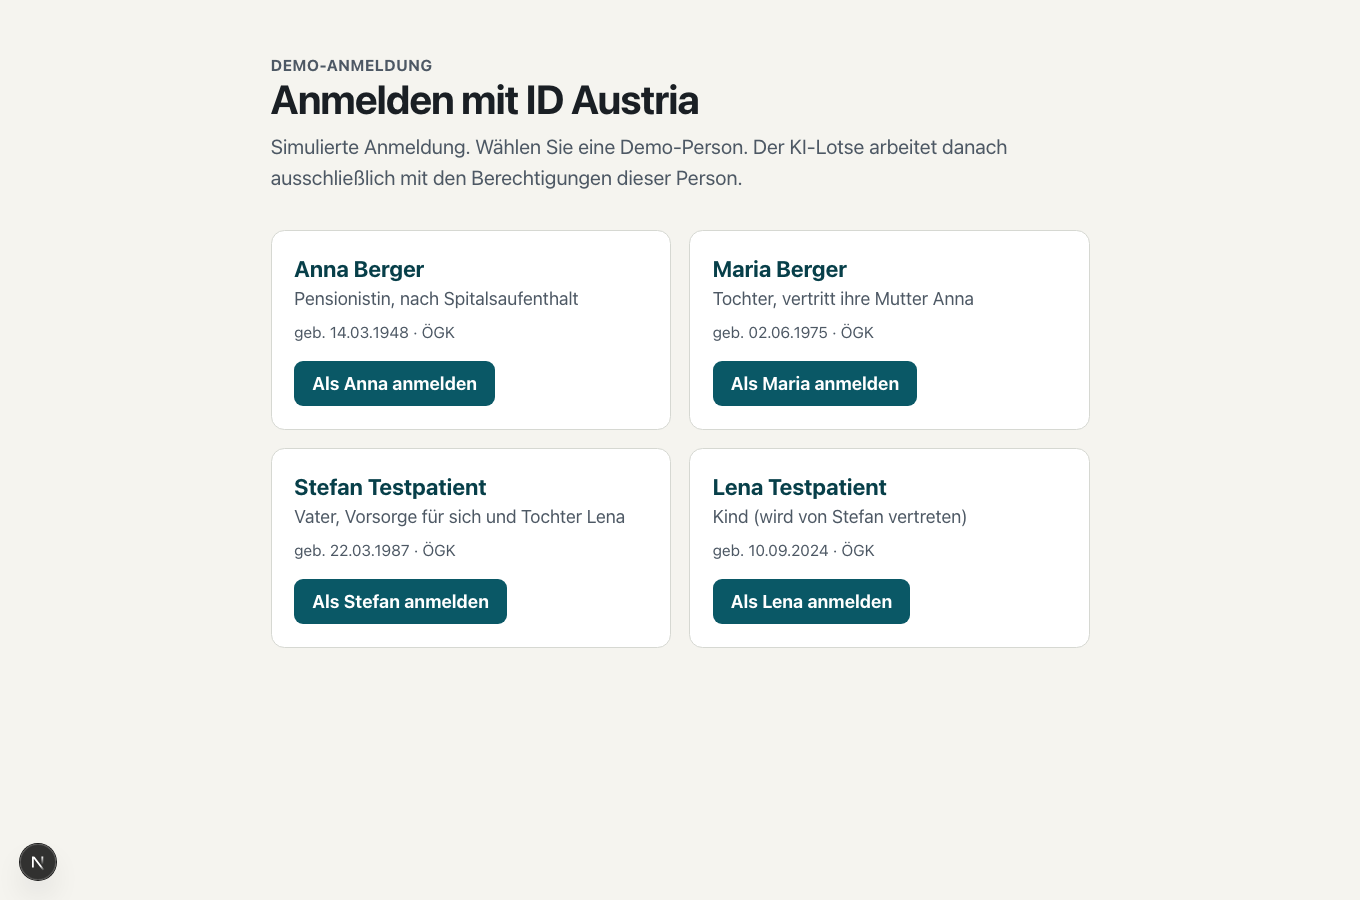
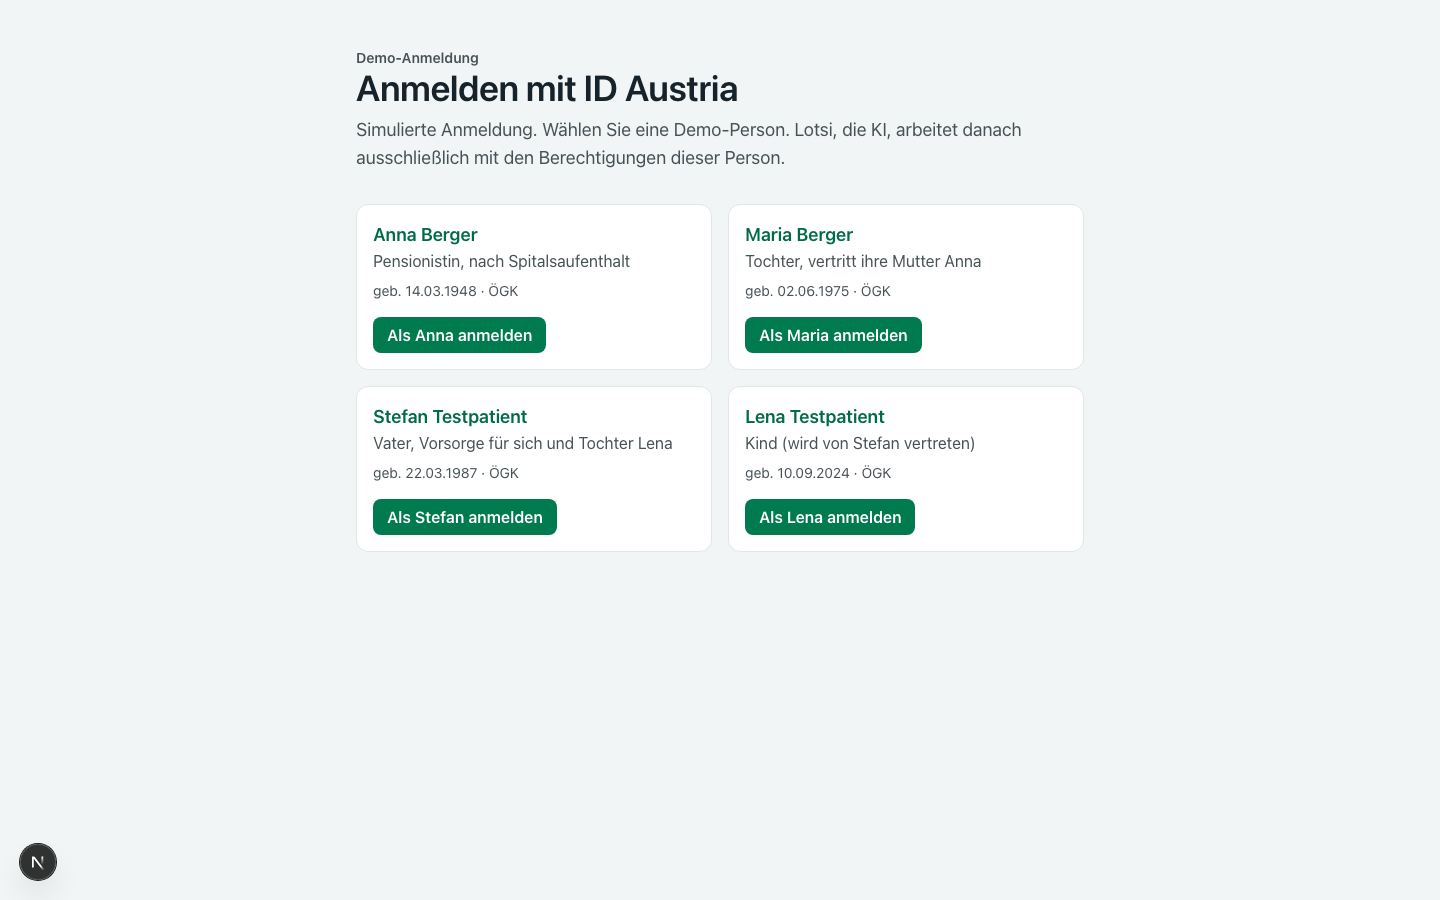
[WS-W] fix: inbox links to cockpit routes, German scope names in 403 notices, Markdown lists/code in chat; fresh screenshots (15) of the current UI

diff --git a/apps/web/components/SimpleMarkdown.tsx b/apps/web/components/SimpleMarkdown.tsx
@@ -1,36 +1,55 @@
-/** Minimal, injection-safe rendering of the agent's replies: paragraphs, "- " lists and **bold**. No HTML is interpreted. */
+/** Minimal, injection-safe rendering of the agent's replies: paragraphs, "- " lists (also mixed into a paragraph
+ *  block), **bold** and `code` (shown as plain emphasis). No HTML is interpreted. */
 export function SimpleMarkdown({ text }: { text: string }) {
   const blocks = text.trim().split(/\n{2,}/);
   return (
     <div className="space-y-2">
-      {blocks.map((block, i) => {
-        const lines = block.split("\n");
-        if (lines.every((l) => /^\s*[-*•]\s+/.test(l))) {
-          return (
-            <ul key={i} className="list-disc space-y-1 pl-5">
-              {lines.map((l, j) => (
-                <li key={j}>{inline(l.replace(/^\s*[-*•]\s+/, ""))}</li>
-              ))}
-            </ul>
-          );
-        }
-        return (
-          <p key={i}>
-            {lines.map((l, j) => (
-              <span key={j}>
-                {j > 0 && <br />}
-                {inline(l)}
-              </span>
-            ))}
-          </p>
-        );
-      })}
+      {blocks.flatMap((block, i) => groups(block.split("\n")).map((g, j) => render(g, `${i}-${j}`)))}
     </div>
   );
 }
 
-function inline(s: string) {
-  return s.split(/(\*\*[^*]+\*\*)/g).map((part, i) =>
-    part.startsWith("**") && part.endsWith("**") ? <strong key={i}>{part.slice(2, -2)}</strong> : part,
+type Group = { list: boolean; lines: string[] };
+const BULLET = /^\s*[-*•]\s+/;
+
+/** Split a block into consecutive runs of list lines and text lines. */
+function groups(lines: string[]): Group[] {
+  const out: Group[] = [];
+  for (const l of lines) {
+    const list = BULLET.test(l);
+    const last = out[out.length - 1];
+    if (last && last.list === list) last.lines.push(l);
+    else out.push({ list, lines: [l] });
+  }
+  return out;
+}
+
+function render(g: Group, key: string) {
+  if (g.list) {
+    return (
+      <ul key={key} className="list-disc space-y-0.5 pl-5">
+        {g.lines.map((l, j) => (
+          <li key={j}>{inline(l.replace(BULLET, ""))}</li>
+        ))}
+      </ul>
+    );
+  }
+  return (
+    <p key={key}>
+      {g.lines.map((l, j) => (
+        <span key={j}>
+          {j > 0 && <br />}
+          {inline(l)}
+        </span>
+      ))}
+    </p>
   );
+}
+
+function inline(s: string) {
+  return s.split(/(\*\*[^*]+\*\*|`[^`]+`)/g).map((part, i) => {
+    if (part.startsWith("**") && part.endsWith("**")) return <strong key={i}>{part.slice(2, -2)}</strong>;
+    if (part.startsWith("`") && part.endsWith("`")) return <span key={i} className="font-medium">{part.slice(1, -1)}</span>;
+    return part;
+  });
 }

diff --git a/apps/web/components/ApiError.tsx b/apps/web/components/ApiError.tsx
@@ -1,4 +1,10 @@
 import Link from "next/link";
+import { SCOPE_LABELS } from "@/lib/labels";
+
+/** API details name scopes by key ("Fehlende Berechtigung 'view_health_prevention'") – show the German name instead. */
+function humanize(detail: string) {
+  return detail.replace(/'?\b(read_documents|prepare_applications|manage_appointments|view_health_prevention|manage_case)\b'?/g, (_, k: keyof typeof SCOPE_LABELS) => `„${SCOPE_LABELS[k]}“`);
+}
 
 /** Friendly rendering of an API error. 403 explains the missing delegation. */
 export function ApiError({ status, detail, subjectName }: { status: number; detail: string; subjectName?: string }) {
@@ -8,7 +14,7 @@ export function ApiError({ status, detail, subjectName }: { status: number; deta
         <p className="font-semibold text-ink">
           Dafür hat {subjectName ?? "die vertretene Person"} keine Berechtigung erteilt.
         </p>
-        <p className="mt-1 text-muted">{detail}</p>
+        <p className="mt-1 text-muted">{humanize(detail)}</p>
         <p className="mt-3">
           <Link href="/einstellungen#vollmachten" className="link">
             Vollmachten ansehen

diff --git a/apps/web/app/(app)/page.tsx b/apps/web/app/(app)/page.tsx
@@ -2,7 +2,7 @@ import { Building2, Compass, Eye, FilePen, FileText, ListChecks, Pill, Scale, Sy
 import Link from "next/link";
 import { OpenChatButton } from "@/components/OpenChatButton";
 import { api } from "@/lib/api";
-import { fmtDate, fullName } from "@/lib/labels";
+import { cockpitRoute, fmtDate, fullName } from "@/lib/labels";
 import { getMe } from "@/lib/me";
 import type { Notification } from "@/lib/types";
 
@@ -63,7 +63,7 @@ export default async function Cockpit() {
                 <h3 className="font-semibold">{n.title_de}</h3>
                 <p className="text-muted">{n.body_de}</p>
                 {n.link && (
-                  <Link href={n.link} className="link mt-1 inline-block">
+                  <Link href={cockpitRoute(n.link)} className="link mt-1 inline-block">
                     Öffnen
                   </Link>
                 )}

diff --git a/apps/web/lib/labels.ts b/apps/web/lib/labels.ts
@@ -72,3 +72,22 @@ export function fmtAmount(value: number, unit: string) {
   if (unit === "EUR") return value.toLocaleString("de-AT", { style: "currency", currency: "EUR" });
   return `${value.toLocaleString("de-AT")} ${unit}`;
 }
+
+/** API links (service names, English) → cockpit routes (German). Unknown links pass through unchanged. */
+const ROUTES: Record<string, string> = {
+  "/case": "/fall",
+  "/cases": "/fall",
+  "/prevention": "/vorsorge",
+  "/benefits": "/leistungen",
+  "/documents": "/dokumente",
+  "/forms": "/leistungen",
+  "/audit": "/transparenz",
+  "/directory": "/stellen",
+  "/medications": "/medikamente",
+  "/legal": "/recht",
+};
+export function cockpitRoute(link: string) {
+  const [path, rest = ""] = link.split(/(?=[?#])/);
+  if (/^\/forms\/[^/]+$/.test(path)) return link;
+  return (ROUTES[path] ?? path) + rest;
+}

diff --git a/apps/web/README.md b/apps/web/README.md
@@ -27,7 +27,7 @@ documents → recommendations → benefits → form wizard → PDF draft → Mei
 | `/fall` | `GET/POST /api/cases`, `PATCH …/steps/{id}` |
 | `/vorsorge` | `GET /api/prevention/overview` (wording per CLAUDE.md §8) |
 | `/transparenz` | `GET /api/audit` — who · for whom · UI/KI · tool · scope · result · sources; denied rows red; repeated polling collapsed (×N) |
-| `/vertretung` | delegations; toggles via `PUT /api/identity/delegations/{id}/scopes` (only grantor can edit) |
+| `/einstellungen` | Darstellung (Einfache Sprache, Größere Schrift) + Vollmachten (scope toggles via `PUT /api/identity/delegations/{id}/scopes`, only the grantor can edit; note that real delegation runs via ID Austria). `/vertretung` redirects here |
 | `/stellen`, `/medikamente`, `/recht` | directory, EKO search, legal search/paragraph (Fassung + „keine Rechtsberatung“) |
 | chat panel („Lotsi“) | `POST /api/agent/chat` with page context (`form_session_id` on `/forms/<id>`, `document_ids` on `/dokumente/<id>`) so the agent works on the open form; tool trace collapsible, boundary replies highlighted, action buttons (open form, download draft, open case), minimal safe Markdown; refreshes server data after tool calls |
 | autocomplete | Medikamente + Rechtsgrundlagen: debounced (250 ms, ≥ 3 chars) typeahead over the search APIs (each lookup is audited) |
@@ -42,7 +42,6 @@ Shows only what the API returns — no amounts, eligibility or medical statement
 None of its own; all from the services' `SourceRef`s.
 
 ## Limitations
-- Screenshots in `documentation/screenshots/` predate the polish pass (refresh pending).
 - No automated UI tests in repo; hero flow verified with a Playwright script (screenshots in `documentation/screenshots/`).
 
 ## Tests

diff --git a/PROGRESS.md b/PROGRESS.md
@@ -19,7 +19,7 @@ Single source of truth for all sessions. Update your row at start and at Definit
 | WS-B | benefits catalog + eligibility, directory, legal FTS5, medications | bg agent | ws/B-benefits | merged | H5 | offices outside Wien not curated |
 | WS-D | documents extraction (+golden), prevention (Impfpass) | bg agent | ws/D-documents | merged | H4 | live LLM path untested (key 401) |
 | WS-F | forms: schemas, sessions, prefill, real PDF fill | bg agent | ws/F-forms | merged | H6 | Einrichtungswunsch/Senioren-WG/Reha-n-Unfall not mapped |
-| WS-W | web cockpit | human session | ws/W-web | review → merge requested | H10 | — (UI remarks from user follow as a 2nd small merge) |
+| WS-W | web cockpit | human session | ws/W-web | review → 2nd merge requested (UI pass, settings, icons) | H11 | — |
 | WS-A | agent orchestrator + guardrails + evals | bg agent | ws/A-agent | merged | H7 | evals 28/28 live (REPORT.md) |
 | WS-C | cases + notifications | integrator | main | merged | H3 | — |
 
